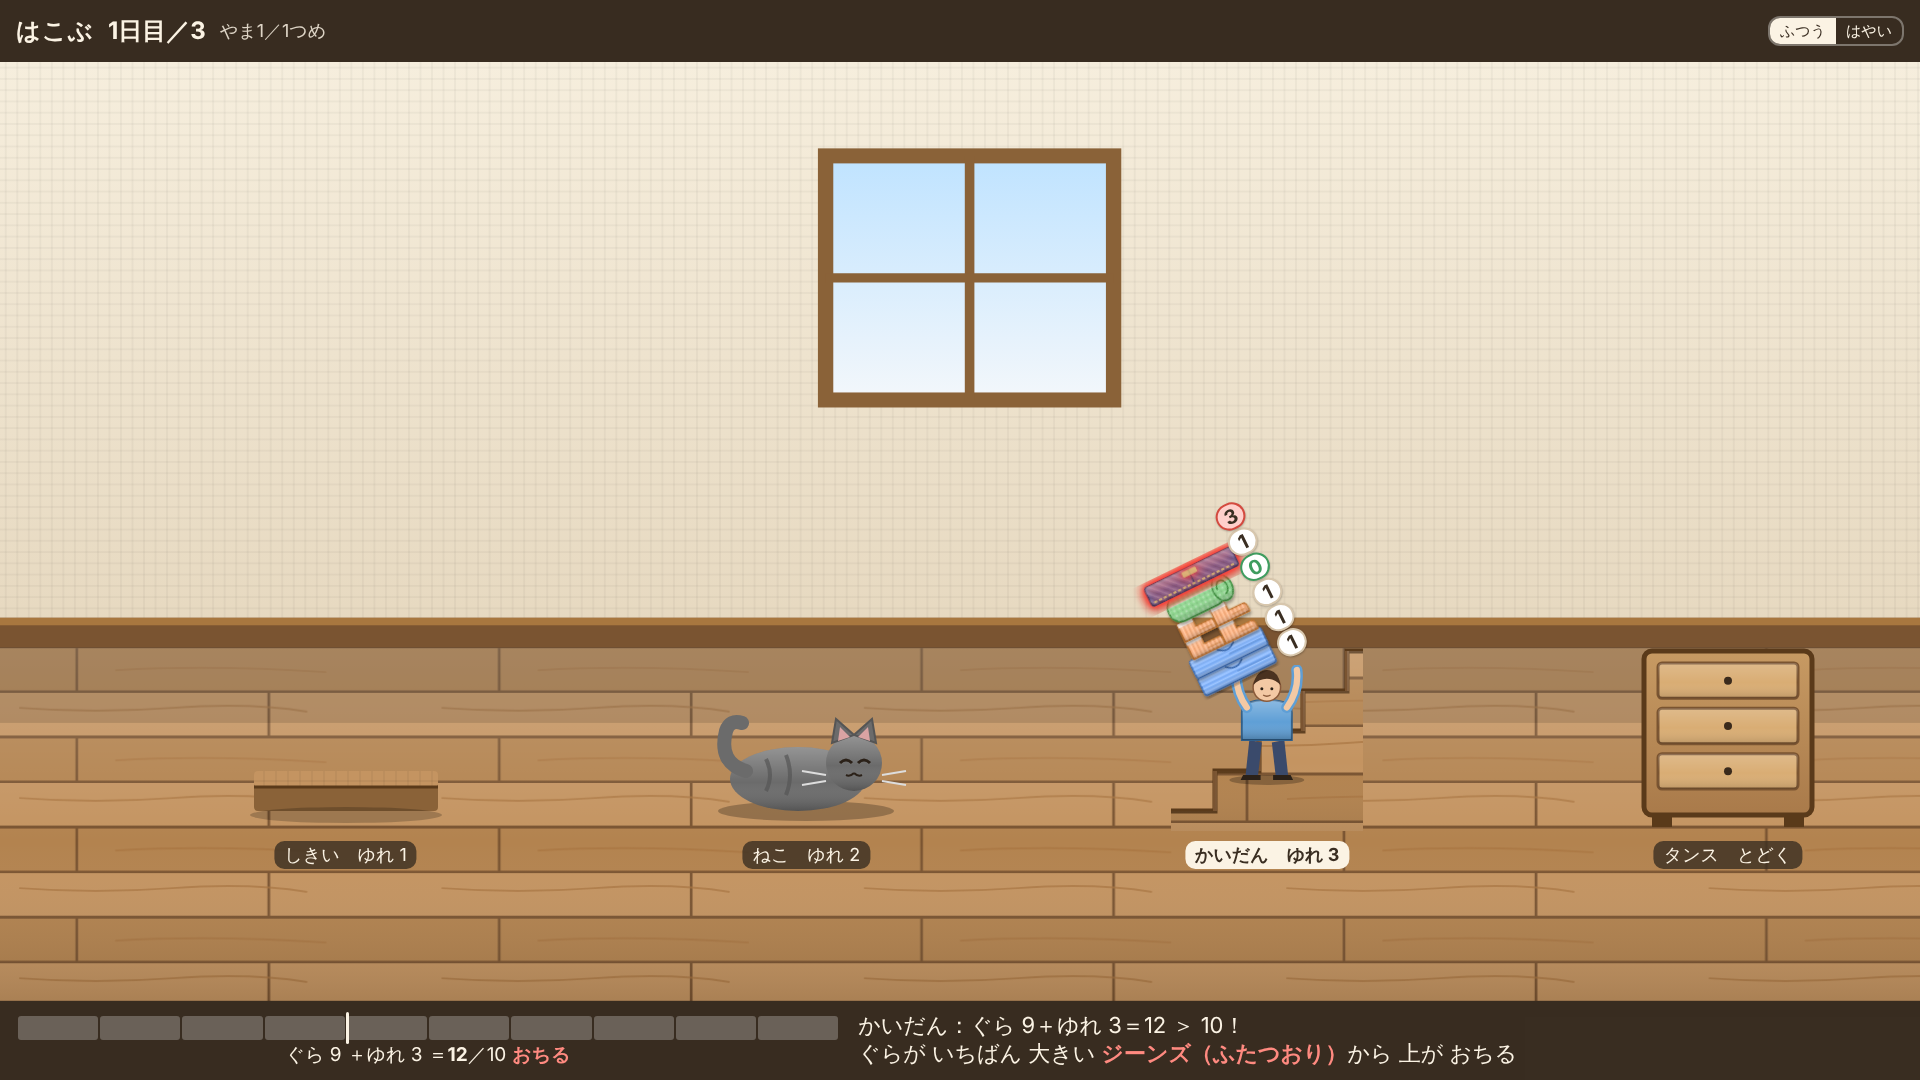
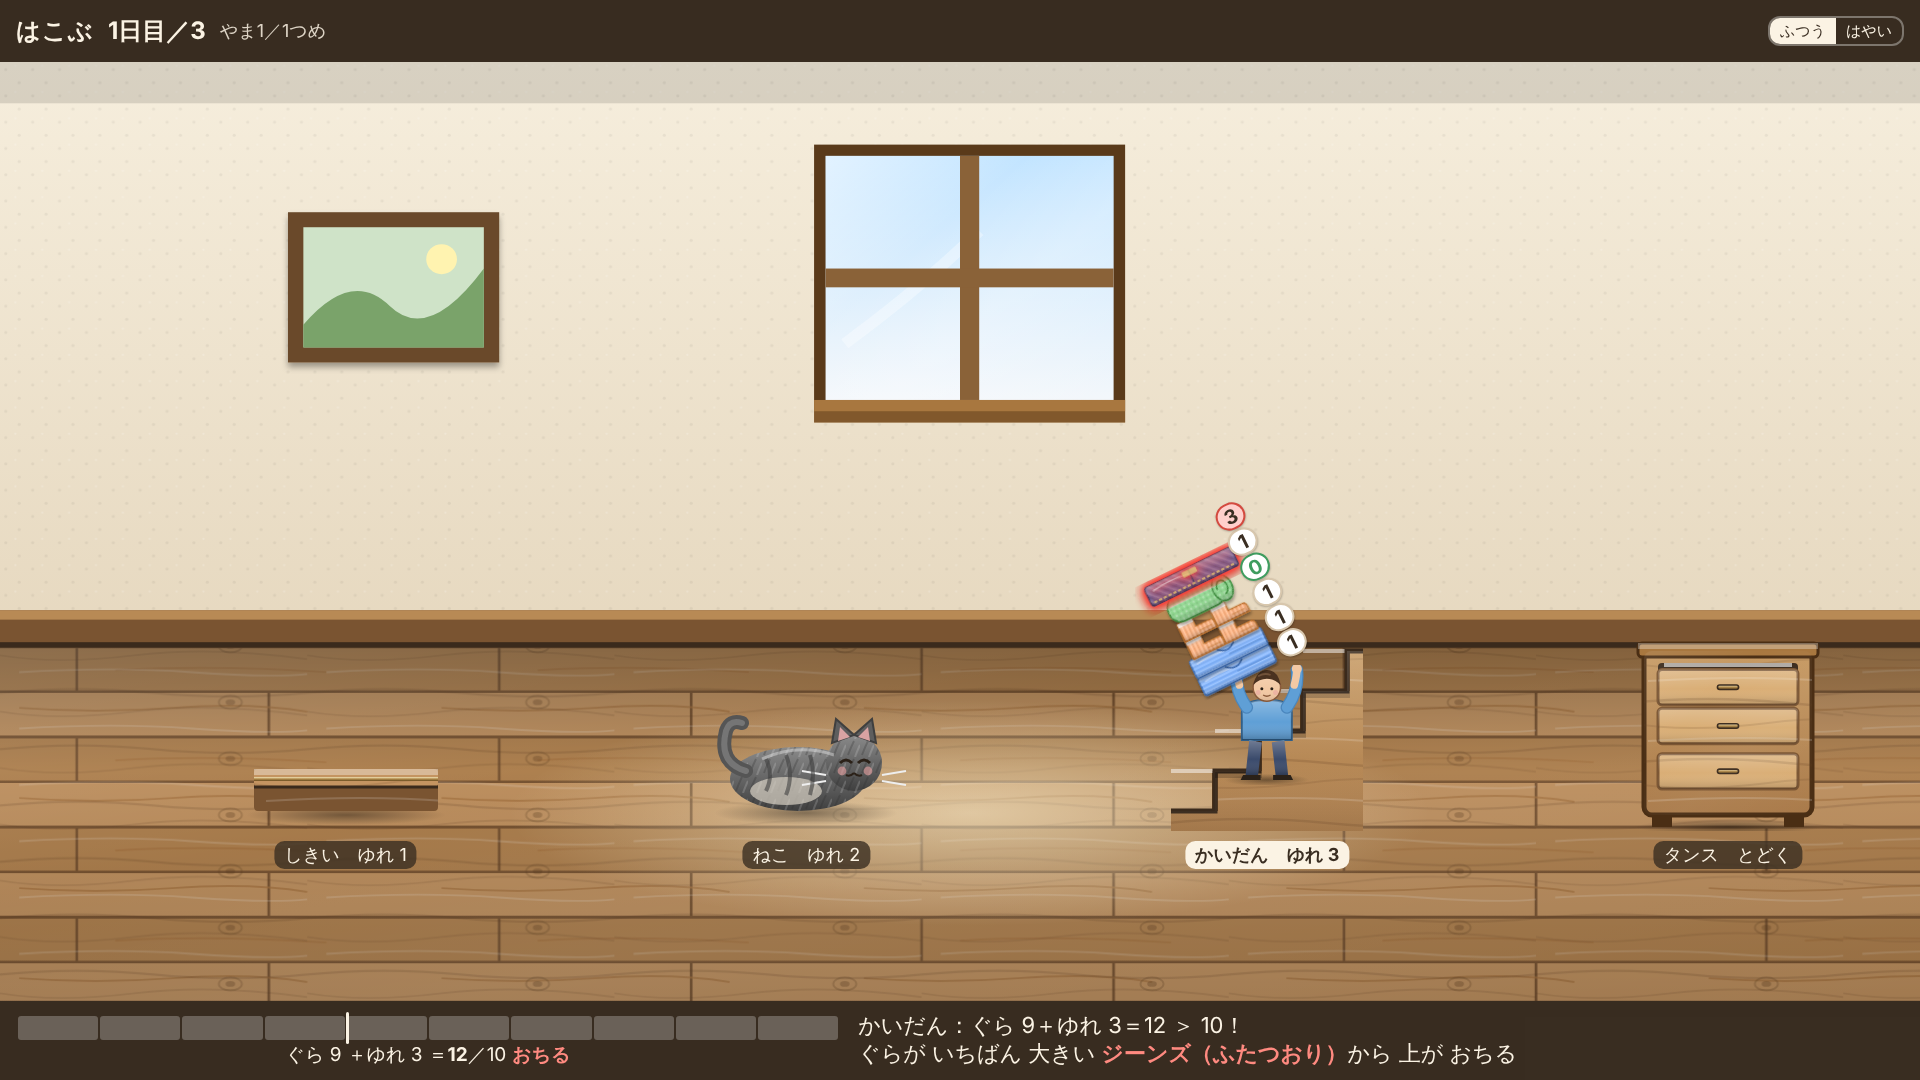
質感の回③：布のふくらみ、ねこのまばたきとしっぽ
Claude-Session: https://claude.ai/code/session_01MmzYoT4B9Fx3f1cD3sztui

diff --git a/ui.js b/ui.js
@@ -142,6 +142,10 @@
       if (pat && !opts.flat) out += pt.replace('FILL', 'fill="url(#' + pat + ')"');
       if (!opts.flat) out += pt.replace('FILL', 'fill="url(#' + shade + ')"');
     });
+    // ふくらみ：左右の端を 少し暗く（丸みが出る）
+    if (!opts.flat && shape !== 'raw' && shape !== 'ball' && shape !== 'pair') {
+      out += '<rect x="' + x + '" y="' + y + '" width="' + Math.max(2, w * 0.08) + '" height="' + h + '" rx="2" fill="#000" fill-opacity=".10"/><rect x="' + (x + w - Math.max(2, w * 0.08)) + '" y="' + y + '" width="' + Math.max(2, w * 0.08) + '" height="' + h + '" rx="2" fill="#000" fill-opacity=".10"/>';
+    }
     // しわの光（上側に 1本）と すその縫い目（四角い形だけ）
     if (!opts.flat && shape !== 'raw' && shape !== 'ball' && shape !== 'pair' && shape !== 'tube') {
       out += '<path d="M' + (x + w * 0.08) + ' ' + (y + h * 0.3) + ' q' + (w * 0.2) + ' -' + (h * 0.18) + ' ' + (w * 0.42) + ' ' + (h * 0.02) + '" stroke="#fff" stroke-opacity=".45" stroke-width="' + (sw * 0.9) + '" fill="none" stroke-linecap="round"/>';
@@ -306,7 +310,7 @@
   }
   var STATION_BIG = {
     shikii: '<ellipse cx="50" cy="92" rx="50" ry="5" fill="url(#g-ao)"/><rect x="4" y="76" width="92" height="14" rx="2" fill="#7a5431"/><rect x="4" y="76" width="92" height="14" fill="url(#p-grain)"/><rect x="4" y="69" width="92" height="9" rx="2" fill="#c49461"/><rect x="4" y="69" width="92" height="9" fill="url(#p-grain)"/><rect x="4" y="69" width="92" height="3" fill="#fff" opacity=".35"/><rect x="4" y="73" width="92" height="2" fill="url(#g-metal)"/><line x1="4" y1="78" x2="96" y2="78" stroke="#3a2a1c" stroke-width="1.5"/>',
-    neko: '<ellipse cx="50" cy="91" rx="46" ry="6" fill="url(#g-ao)"/><ellipse cx="46" cy="74" rx="34" ry="16" fill="url(#g-fur)"/><ellipse cx="46" cy="74" rx="34" ry="16" fill="url(#p-fur)"/><path d="M20 70 q-14 -4 -10 -20 q2 -6 8 -4" stroke="#555" stroke-width="7" fill="none" stroke-linecap="round"/><path d="M20 70 q-14 -4 -10 -20 q2 -6 8 -4" stroke="#8a8a8a" stroke-width="3" fill="none" stroke-linecap="round" opacity=".6"/><ellipse cx="40" cy="80" rx="18" ry="7" fill="#d9d2c4" opacity=".7"/><circle cx="74" cy="66" r="14" fill="url(#g-fur)"/><circle cx="74" cy="66" r="14" fill="url(#p-fur)"/><path d="M63 56 l2 -12 l9 8z M85 56 l-2 -12 l-9 8z" fill="#5e5e5e" stroke="#3f3f3f" stroke-width="1"/><path d="M66 55 l1 -7 l5 5z M82 55 l-1 -7 l-5 5z" fill="#d9a3a3"/><path d="M67 66 q3 -3 6 0 M76 66 q3 -3 6 0" stroke="#2b2118" stroke-width="1.5" fill="none"/><circle cx="68" cy="70" r="2.2" fill="#e8a0a0" opacity=".6"/><circle cx="81" cy="70" r="2.2" fill="#e8a0a0" opacity=".6"/><path d="M74 71 q-2 2 -4 1 M74 71 q2 2 4 1" stroke="#2b2118" stroke-width="1" fill="none"/><path d="M60 72 l-12 -2 M60 75 l-12 2 M88 72 l12 -2 M88 75 l12 2" stroke="#eee" stroke-width="1"/><path d="M30 64 q4 8 0 16 M40 62 q4 10 0 20 M52 62 q3 10 0 20" stroke="#3f3f3f" stroke-width="2" fill="none" opacity=".6"/><path d="M28 64 q18 -8 36 -2" stroke="#fff" stroke-width="1.5" fill="none" opacity=".35"/>',
+    neko: '<ellipse cx="50" cy="91" rx="46" ry="6" fill="url(#g-ao)"/><ellipse cx="46" cy="74" rx="34" ry="16" fill="url(#g-fur)"/><ellipse cx="46" cy="74" rx="34" ry="16" fill="url(#p-fur)"/><g class="cat-tail"><path d="M20 70 q-14 -4 -10 -20 q2 -6 8 -4" stroke="#555" stroke-width="7" fill="none" stroke-linecap="round"/><path d="M20 70 q-14 -4 -10 -20 q2 -6 8 -4" stroke="#8a8a8a" stroke-width="3" fill="none" stroke-linecap="round" opacity=".6"/></g><ellipse cx="40" cy="80" rx="18" ry="7" fill="#d9d2c4" opacity=".7"/><circle cx="74" cy="66" r="14" fill="url(#g-fur)"/><circle cx="74" cy="66" r="14" fill="url(#p-fur)"/><path d="M63 56 l2 -12 l9 8z M85 56 l-2 -12 l-9 8z" fill="#5e5e5e" stroke="#3f3f3f" stroke-width="1"/><path d="M66 55 l1 -7 l5 5z M82 55 l-1 -7 l-5 5z" fill="#d9a3a3"/><path class="cat-eye" d="M67 66 q3 -3 6 0 M76 66 q3 -3 6 0" stroke="#2b2118" stroke-width="1.5" fill="none"/><path class="cat-eye-open" d="M67 65 q3 3 6 0 M76 65 q3 3 6 0" stroke="#2b2118" stroke-width="1.5" fill="none" opacity="0"/><circle cx="68" cy="70" r="2.2" fill="#e8a0a0" opacity=".6"/><circle cx="81" cy="70" r="2.2" fill="#e8a0a0" opacity=".6"/><path d="M74 71 q-2 2 -4 1 M74 71 q2 2 4 1" stroke="#2b2118" stroke-width="1" fill="none"/><path d="M60 72 l-12 -2 M60 75 l-12 2 M88 72 l12 -2 M88 75 l12 2" stroke="#eee" stroke-width="1"/><path d="M30 64 q4 8 0 16 M40 62 q4 10 0 20 M52 62 q3 10 0 20" stroke="#3f3f3f" stroke-width="2" fill="none" opacity=".6"/><path d="M28 64 q18 -8 36 -2" stroke="#fff" stroke-width="1.5" fill="none" opacity=".35"/>',
     kaidan: '<path d="M0 92 h100 v8 h-100z" fill="url(#g-ao)"/><path d="M2 90 h22 v-20 h22 v-20 h22 v-20 h22 v-20 h8 v100 h-96z" fill="url(#g-wood)"/><path d="M2 90 h22 v-20 h22 v-20 h22 v-20 h22 v-20 h8 v100 h-96z" fill="url(#p-grain)"/><path d="M24 70 v20 M46 50 v20 M68 30 v20 M90 10 v20" stroke="#5a3a1a" stroke-width="3"/><path d="M2 70 h22 M24 50 h22 M46 30 h22 M68 10 h22" stroke="#fff" stroke-width="2" opacity=".5"/><path d="M2 90 h22 v-20 h22 v-20 h22 v-20 h22 v-20 h8" fill="none" stroke="#3a2a1c" stroke-width="2.5"/><path d="M24 72 h22 v-2 M46 52 h22 v-2 M68 32 h22 v-2" stroke="#000" stroke-width="3" opacity=".2"/><path d="M2 90 h22 v-20 h22 v-20 h22 v-20 h22 v-20 h8 v100 h-96z" fill="url(#g-shade)" opacity=".5"/>',
     tansu: ''
   };

diff --git a/index.html b/index.html
@@ -85,6 +85,10 @@
   /* 歩いている間：人が上下に揺れ、山も少し遅れて揺れる */
   #carrier.walking .person { animation: fx-walk calc(.5s / var(--spd, 1)) ease-in-out infinite; }
   #carrier.walking .cst { animation: fx-sway calc(.5s / var(--spd, 1)) ease-in-out infinite; }
+  .cat-tail { transform-box: fill-box; transform-origin: 100% 100%; animation: fx-tail 3s ease-in-out infinite; }
+  @keyframes fx-tail { 0%, 100% { transform: rotate(0); } 50% { transform: rotate(-14deg); } }
+  .cat-eye-open { animation: fx-blink 5s steps(1) infinite; }
+  @keyframes fx-blink { 0%, 93% { opacity: 0; } 94%, 97% { opacity: 1; } 98%, 100% { opacity: 0; } }
   @keyframes fx-walk { 0%, 100% { transform: translateY(0) rotate(-2deg); } 50% { transform: translateY(-4px) rotate(2deg); } }
   @keyframes fx-sway { 0%, 100% { margin-left: 0; } 50% { margin-left: 3px; } }
   .layer.fx-pat { animation: fx-pat calc(.35s / var(--spd, 1)) ease-out; transform-box: fill-box; transform-origin: 50% 100%; }
